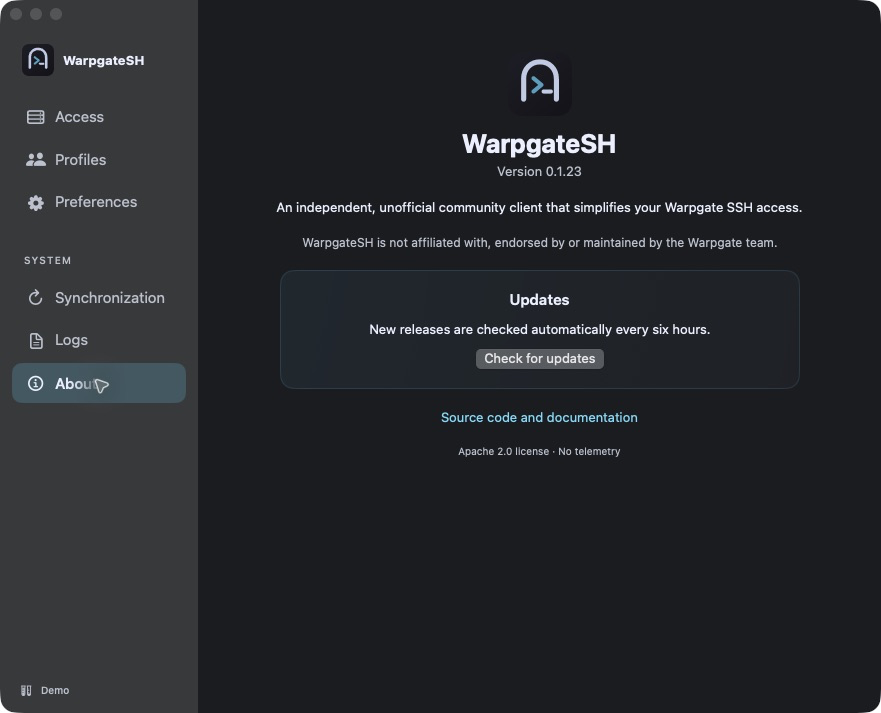
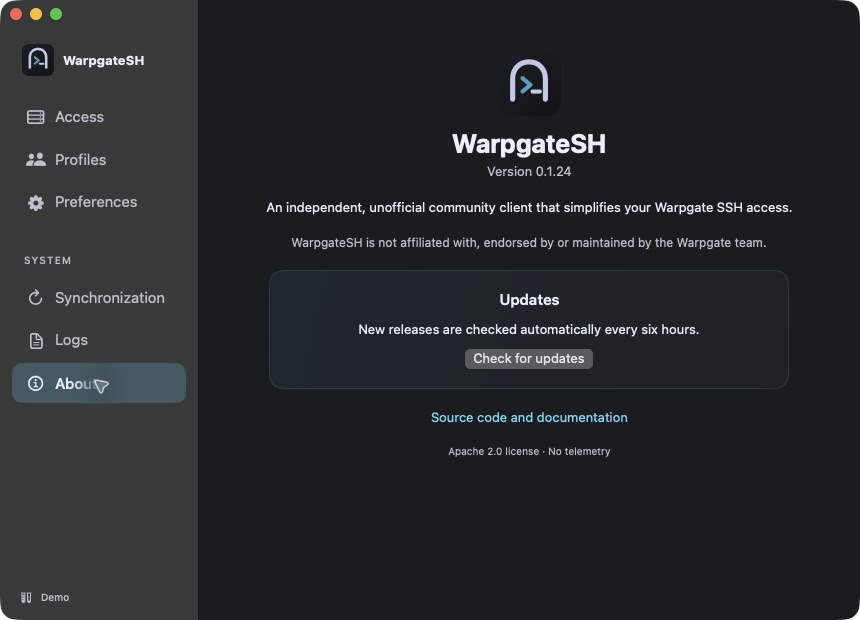
fix(macos): associate native menu bar and companion login identities

diff --git a/apps/warpgatesh-site/public/index.html b/apps/warpgatesh-site/public/index.html
@@ -177,7 +177,7 @@
           <p class="fine">
             Close the window. The background agent keeps working.
           </p>
-          <p class="preview-note">The native SwiftUI companion is included in v0.1.18 and later. Version 0.1.23 explains background synchronization before installation, adds a manual mode and clearly identifies the background agent.</p>
+          <p class="preview-note">The native SwiftUI companion is included in v0.1.18 and later. Version 0.1.24 fixes menu-bar registration on a new Mac and identifies both background login items as WarpgateSH. First launch explains background synchronization and offers manual mode.</p>
           <a class="inline-link" href="docs/desktop-app.html">Explore the native companion <span aria-hidden="true">→</span></a>
         </div>
         <figure class="companion-figure">

diff --git a/apps/warpgatesh-macos/Sources/WarpgateSH/Bridge/DemoBridge.swift b/apps/warpgatesh-macos/Sources/WarpgateSH/Bridge/DemoBridge.swift
@@ -18,7 +18,7 @@ final class DemoBridge: CompanionTransport {
     preferences: .init(
       syncIntervalSeconds: 300, launchCompanionAtLogin: false, defaultProfile: "homelab"),
     terminalIntegration: .init(status: "missing", path: "/usr/local/bin/warpgatesh"),
-    update: .init(phase: "idle", channel: "unsupported", currentVersion: "0.1.23"), alerts: [])
+    update: .init(phase: "idle", channel: "unsupported", currentVersion: "0.1.24"), alerts: [])
 
   init(firstLaunch: Bool = CommandLine.arguments.contains("--demo-first-launch")) {
     state.agentSetup = .init(

diff --git a/apps/warpgatesh-companion/src-tauri/src/companion_login.rs b/apps/warpgatesh-companion/src-tauri/src/companion_login.rs
@@ -1,0 +1,245 @@
+//! Stable app identity for the companion's existing legacy login item.
+use plist::Value;
+use std::fs::{self, OpenOptions};
+use std::io::Write;
+use std::path::{Path, PathBuf};
+use std::time::{SystemTime, UNIX_EPOCH};
+use warpgatesh_runtime::RuntimeError;
+
+const BUNDLE_ID: &str = "dev.warpgatesh.companion";
+const LABEL: &str = "WarpgateSH";
+
+fn location() -> Result<(PathBuf, PathBuf), RuntimeError> {
+    let store = warpgatesh_runtime::storage::LocalStore::for_current_user()?;
+    Ok((
+        store
+            .paths()
+            .launch_agent
+            .with_file_name("WarpgateSH.plist"),
+        std::env::current_exe()?,
+    ))
+}
+
+pub fn migrate_existing() -> Result<bool, RuntimeError> {
+    // Developer previews must not rewrite the installed application's login item.
+    if cfg!(debug_assertions) {
+        return Ok(false);
+    }
+    let (path, executable) = location()?;
+    associate_file(&path, &executable)
+}
+
+pub fn enable() -> Result<(), RuntimeError> {
+    if cfg!(debug_assertions) {
+        return Err(RuntimeError::Command(
+            "Cette option nécessite l’application distribuée.".to_owned(),
+        ));
+    }
+    let (path, executable) = location()?;
+    enable_file(&path, &executable)
+}
+
+fn read_owned(path: &Path, executable: &Path) -> Result<Option<Value>, RuntimeError> {
+    match fs::symlink_metadata(path) {
+        Err(error) if error.kind() == std::io::ErrorKind::NotFound => return Ok(None),
+        Err(error) => return Err(error.into()),
+        Ok(metadata) if !metadata.is_file() || metadata.file_type().is_symlink() => {
+            return Err(foreign_item());
+        }
+        Ok(_) => {}
+    }
+    let expected = executable.to_str().ok_or_else(foreign_item)?;
+    let value = Value::from_file(path).map_err(|error| invalid_plist(&error))?;
+    let dictionary = value.as_dictionary().ok_or_else(foreign_item)?;
+    let arguments = dictionary.get("ProgramArguments").and_then(Value::as_array);
+    if dictionary.contains_key("Program")
+        || dictionary.get("Label").and_then(Value::as_string) != Some(LABEL)
+        || arguments
+            .and_then(|args| args.first())
+            .and_then(Value::as_string)
+            != Some(expected)
+    {
+        return Err(foreign_item());
+    }
+    Ok(Some(value))
+}
+
+fn association() -> Value {
+    Value::Array(vec![Value::String(BUNDLE_ID.to_owned())])
+}
+
+fn associate_file(path: &Path, executable: &Path) -> Result<bool, RuntimeError> {
+    let Some(mut value) = read_owned(path, executable)? else {
+        return Ok(false);
+    };
+    let dictionary = value.as_dictionary_mut().ok_or_else(foreign_item)?;
+    if dictionary.get("AssociatedBundleIdentifiers") == Some(&association()) {
+        return Ok(false);
+    }
+    dictionary.insert("AssociatedBundleIdentifiers".to_owned(), association());
+    write_plist(path, &value)?;
+    Ok(true)
+}
+
+fn enable_file(path: &Path, executable: &Path) -> Result<(), RuntimeError> {
+    match fs::symlink_metadata(path) {
+        Ok(_) => {
+            associate_file(path, executable)?;
+            return Ok(());
+        }
+        Err(error) if error.kind() == std::io::ErrorKind::NotFound => {}
+        Err(error) => return Err(error.into()),
+    }
+    let executable = executable.to_str().ok_or_else(foreign_item)?;
+    let mut dictionary = plist::Dictionary::new();
+    dictionary.insert("Label".to_owned(), Value::String(LABEL.to_owned()));
+    dictionary.insert(
+        "ProgramArguments".to_owned(),
+        Value::Array(vec![Value::String(executable.to_owned())]),
+    );
+    dictionary.insert("RunAtLoad".to_owned(), Value::Boolean(true));
+    dictionary.insert("AssociatedBundleIdentifiers".to_owned(), association());
+    write_plist(path, &Value::Dictionary(dictionary))
+}
+
+fn write_plist(path: &Path, value: &Value) -> Result<(), RuntimeError> {
+    let mut bytes = Vec::new();
+    value
+        .to_writer_xml(&mut bytes)
+        .map_err(|error| invalid_plist(&error))?;
+    let parent = path.parent().ok_or_else(foreign_item)?;
+    fs::create_dir_all(parent)?;
+    let nonce = SystemTime::now()
+        .duration_since(UNIX_EPOCH)
+        .unwrap_or_default()
+        .as_nanos();
+    let temporary = parent.join(format!(
+        ".warpgatesh-login-{}-{nonce}.tmp",
+        std::process::id()
+    ));
+    let mut options = OpenOptions::new();
+    options.write(true).create_new(true);
+    #[cfg(unix)]
+    {
+        use std::os::unix::fs::OpenOptionsExt;
+        options.mode(0o600);
+    }
+    let mut file = options.open(&temporary)?;
+    let result = (|| {
+        file.write_all(&bytes)?;
+        if let Ok(metadata) = fs::metadata(path) {
+            file.set_permissions(metadata.permissions())?;
+        }
+        file.sync_all()?;
+        fs::rename(&temporary, path)
+    })();
+    if result.is_err() {
+        let _ = fs::remove_file(&temporary);
+    }
+    result.map_err(Into::into)
+}
+
+fn foreign_item() -> RuntimeError {
+    RuntimeError::Command(
+        "L’élément d’ouverture de session appartient à une autre installation et a été conservé."
+            .to_owned(),
+    )
+}
+fn invalid_plist(error: &plist::Error) -> RuntimeError {
+    RuntimeError::Command(format!("Invalid companion login item: {error}"))
+}
+
+#[cfg(test)]
+mod tests {
+    use super::*;
+    const LEGACY: &str = r#"<?xml version="1.0" encoding="UTF-8"?>
+<!DOCTYPE plist PUBLIC "-//Apple//DTD PLIST 1.0//EN" "http://www.apple.com/DTDs/PropertyList-1.0.dtd">
+<plist version="1.0"><dict>
+<key>Label</key><string>WarpgateSH</string>
+<key>ProgramArguments</key><array><string>/Applications/WarpgateSH.app/Contents/MacOS/warpgatesh-companion</string><string>--from-autostart</string></array>
+<key>RunAtLoad</key><true/>
+</dict></plist>"#;
+    #[test]
+    fn associates_the_real_legacy_autostart_format_without_changing_launch_behavior() {
+        let directory = tempfile::TempDir::new().expect("temporary directory");
+        let path = directory.path().join("WarpgateSH.plist");
+        std::fs::write(&path, LEGACY).expect("legacy login item");
+        let before = plist::Value::from_reader_xml(LEGACY.as_bytes()).expect("legacy plist");
+        assert!(
+            associate_file(
+                &path,
+                Path::new("/Applications/WarpgateSH.app/Contents/MacOS/warpgatesh-companion")
+            )
+            .expect("associate owned login item")
+        );
+        let mut after = plist::Value::from_file(&path).expect("migrated plist");
+        let association = after
+            .as_dictionary_mut()
+            .expect("dictionary")
+            .remove("AssociatedBundleIdentifiers");
+        assert_eq!(
+            association,
+            Some(plist::Value::Array(vec![plist::Value::String(
+                "dev.warpgatesh.companion".to_owned()
+            )]))
+        );
+        assert_eq!(after, before, "preserve arguments, label and RunAtLoad");
+        assert!(
+            !associate_file(
+                &path,
+                Path::new("/Applications/WarpgateSH.app/Contents/MacOS/warpgatesh-companion")
+            )
+            .expect("idempotent migration")
+        );
+    }
+    #[test]
+    fn new_login_items_are_associated_from_the_first_write() {
+        let directory = tempfile::TempDir::new().expect("temporary directory");
+        let path = directory.path().join("WarpgateSH.plist");
+        let executable =
+            Path::new("/Applications/WarpgateSH.app/Contents/MacOS/warpgatesh-companion");
+        assert!(!associate_file(&path, executable).expect("disabled login item"));
+        assert!(!path.exists());
+        enable_file(&path, executable).expect("explicitly enable login item");
+        let value = Value::from_file(&path).expect("enabled plist");
+        let dictionary = value.as_dictionary().expect("dictionary");
+        assert_eq!(
+            dictionary.get("AssociatedBundleIdentifiers"),
+            Some(&association())
+        );
+        assert_eq!(dictionary.get("RunAtLoad"), Some(&Value::Boolean(true)));
+        let original = fs::read(&path).expect("file");
+        enable_file(&path, executable).expect("already enabled");
+        assert_eq!(fs::read(&path).expect("unchanged file"), original);
+    }
+    #[test]
+    fn preserves_other_installations_and_symlink_targets() {
+        let directory = tempfile::TempDir::new().expect("temporary directory");
+        let path = directory.path().join("WarpgateSH.plist");
+        let foreign = LEGACY.replace(
+            "/Applications/WarpgateSH.app/",
+            "/Applications/Another.app/",
+        );
+        fs::write(&path, &foreign).expect("foreign fixture");
+        let executable =
+            Path::new("/Applications/WarpgateSH.app/Contents/MacOS/warpgatesh-companion");
+        assert!(associate_file(&path, executable).is_err());
+        assert!(enable_file(&path, executable).is_err());
+        assert_eq!(fs::read_to_string(&path).expect("preserved file"), foreign);
+        fs::remove_file(&path).expect("remove fixture");
+        let target = directory.path().join("linked.plist");
+        fs::write(&target, LEGACY).expect("target");
+        std::os::unix::fs::symlink(&target, &path).expect("symlink fixture");
+        assert!(associate_file(&path, executable).is_err());
+        assert_eq!(
+            fs::read_to_string(&target).expect("preserved target"),
+            LEGACY
+        );
+    }
+    #[test]
+    fn association_matches_the_shipping_app() {
+        let config: serde_json::Value =
+            serde_json::from_str(include_str!("../tauri.conf.json")).expect("Tauri config");
+        assert_eq!(config["identifier"].as_str(), Some(BUNDLE_ID));
+    }
+}

diff --git a/apps/warpgatesh-companion/src-tauri/src/commands.rs b/apps/warpgatesh-companion/src-tauri/src/commands.rs
@@ -215,7 +215,7 @@ pub async fn save_preferences(
         }
 
         if preferences.launch_companion_at_login {
-            app.autolaunch().enable().map_err(display_error)?;
+            crate::companion_login::enable().map_err(display_error)?;
         } else {
             app.autolaunch().disable().map_err(display_error)?;
         }

diff --git a/apps/warpgatesh-companion/src-tauri/src/agent_setup.rs b/apps/warpgatesh-companion/src-tauri/src/agent_setup.rs
@@ -56,6 +56,7 @@ pub fn status(store: &LocalStore) -> Result<AgentSetup, RuntimeError> {
 }
 
 pub fn initialize() -> Result<AgentSetup, RuntimeError> {
+    crate::companion_login::migrate_existing()?;
     let store = LocalStore::for_current_user()?;
     initialize_for(&store)
 }

diff --git a/apps/warpgatesh-companion/src-tauri/src/lib.rs b/apps/warpgatesh-companion/src-tauri/src/lib.rs
@@ -1,5 +1,6 @@
 mod agent_setup;
 mod commands;
+mod companion_login;
 mod installation;
 #[cfg(target_os = "macos")]
 mod native;

diff --git a/docs/troubleshooting.md b/docs/troubleshooting.md
@@ -28,15 +28,28 @@ daemon. Closing the WarpgateSH window does not stop it.
 Releases through v0.1.22 register their synchronization agent automatically on
 first launch. From v0.1.23, the app explains its role and asks first on new
 installations; existing agents are preserved.
-Older releases, including v0.1.22, omit the LaunchAgent's application
-association, so macOS can display the developer certificate holder's name
-instead of WarpgateSH. This does not rename the application.
+Two separate login items can appear: the synchronization agent and the optional
+**Open companion at login** item. Version 0.1.23 associates the agent with the
+app; v0.1.24 also associates the companion's login item, which could still appear
+under the developer certificate holder's name.
 
-The corrected LaunchAgent declares `AssociatedBundleIdentifiers` with
-`dev.warpgatesh.companion`. Opening an updated app refreshes and re-registers an
-existing agent automatically. macOS controls the notification text and may
-retain an earlier notification. Check the item's name in **System Settings →
-General → Login Items & Extensions** after updating.
+Open v0.1.24 once from Applications. Existing items are associated with
+`dev.warpgatesh.companion`; the companion's startup arguments and enabled state
+are preserved. A disabled companion login item is not created by this repair.
+macOS controls notification text and can retain an earlier notification. Check
+**System Settings → General → Login Items & Extensions** for the current entry.
+
+## The menu-bar icon is missing
+
+Version 0.1.24 corrects the app bundle's main executable identity so macOS can
+associate the native companion with its menu-bar item on a new Mac. Update, quit
+WarpgateSH completely with **⌘Q**, then reopen it from Applications.
+
+Closing the window with the red button should keep the companion running in the
+menu bar. On macOS 27, check **System Settings → Menu Bar → Allow in Menu Bar**
+if the icon is hidden. An absent entry and an entry switched off are different
+symptoms; report which one you see. Include the macOS/app versions and whether
+the icon is absent both before and after closing the window.
 
 ## macOS repeatedly asks for Keychain access
 

diff --git a/docs/releasing-macos.md b/docs/releasing-macos.md
@@ -70,7 +70,7 @@ depuis la racine du dépôt :
 nix run .#build-macos
 ```
 
-Cette commande produit l’application et le DMG, contrôle les trois exécutables
+Cette commande produit l’application et le DMG, contrôle les quatre exécutables
 universels et vérifie l’image disque. Elle n’active pas les artefacts d’updater,
 la signature Developer ID ou la notarisation.
 
@@ -103,3 +103,17 @@ puis vérifier que la fenêtre reste ouverte et que l’agent répond. Répéter
 binaire en ligne de commande ne suffit pas à tester l’enregistrement Launch
 Services. Celui-ci peut présenter une entrée temporaire dont le PID vaut -1 ;
 elle ne doit jamais être considérée comme une autre instance active.
+
+Depuis v0.1.24, `CFBundleExecutable` doit désigner `warpgatesh-ui`, également
+signé avec l’identifiant du bundle principal. Le lanceur/backend Rust reste un
+exécutable auxiliaire. Le vérificateur de bundle contrôle ces deux propriétés.
+Tester aussi une identité de bundle neuve : un Mac déjà utilisé pour développer
+peut conserver un enregistrement Launch Services qui masque une régression.
+Vérifier l’entrée dans Réglages Système → Barre des menus, puis la survie du
+compagnon après fermeture par la croix rouge ; le seul processus vivant ne
+prouve pas que l’icône a été enregistrée.
+
+Deux LaunchAgents existent : `dev.warpgatesh.agent.plist` pour la synchronisation
+et `WarpgateSH.plist` pour l’ouverture facultative du compagnon. Vérifier leur
+association à l’application sans activer un élément désactivé ni réinitialiser
+les réglages globaux de macOS.

diff --git a/docs/assets/swiftui/README.md b/docs/assets/swiftui/README.md
@@ -7,7 +7,7 @@ These are application screenshots, not rendered HTML or generated mockups.
 The fifteen images show the approved interface and real native controls. Every
 profile, hostname, URL, counter and diagnostic entry comes from fictional demo
 fixtures; no live infrastructure data or tokens are included. The English UI
-labels are captured as displayed. Twelve screenshots were refreshed from the v0.1.23 source build. The three unchanged profile/sign-in/token sheets retain their v0.1.22 captures; `capturedVersion` identifies these entries in the manifest. The native SwiftUI
+labels are captured as displayed. The About screenshot was refreshed for v0.1.24. The interface is otherwise unchanged in v0.1.24. Twelve screenshots were refreshed from the v0.1.23 source build. The three unchanged profile/sign-in/token sheets retain their v0.1.22 captures; `capturedVersion` identifies these entries in the manifest. The native SwiftUI
 interface is distributed from v0.1.18.
 
 `manifest.json` records dimensions and SHA-256 checksums. The project README,

diff --git a/docs/desktop-app.md b/docs/desktop-app.md
@@ -124,7 +124,7 @@ with an underline and color change on hover. Check the installed version and upd
 releases every six hours; **Check for updates** requests a manual check.
 An available signed update requires confirmation before replacing the app, CLI
 and agent together. Homebrew installations instead show the upgrade command.
-The version shown corresponds to the v0.1.23 source build used for these captures.
+The About view shows v0.1.24. Other unchanged views retain their v0.1.23 or v0.1.22 captures, identified individually in the asset manifest.
 
 ## Menu bar, keyboard and accessibility
 

diff --git a/CHANGELOG.md b/CHANGELOG.md
@@ -2,7 +2,10 @@
 
 Toutes les évolutions notables de WarpgateSH sont documentées ici.
 
-## Non publié
+## 0.1.24 — 2026-10-31
+
+- Le démarrage du compagnon à la connexion est lui aussi associé à WarpgateSH. Les anciens éléments sont corrigés sans réactiver ni arrêter les services ; les nouveaux sont créés avec les bonnes métadonnées.
+- Le paquet macOS déclare directement l’interface SwiftUI comme programme principal, pour que son icône de barre de menus soit correctement enregistrée sur une nouvelle installation.
 
 ## 0.1.23 — 2026-10-31
 
